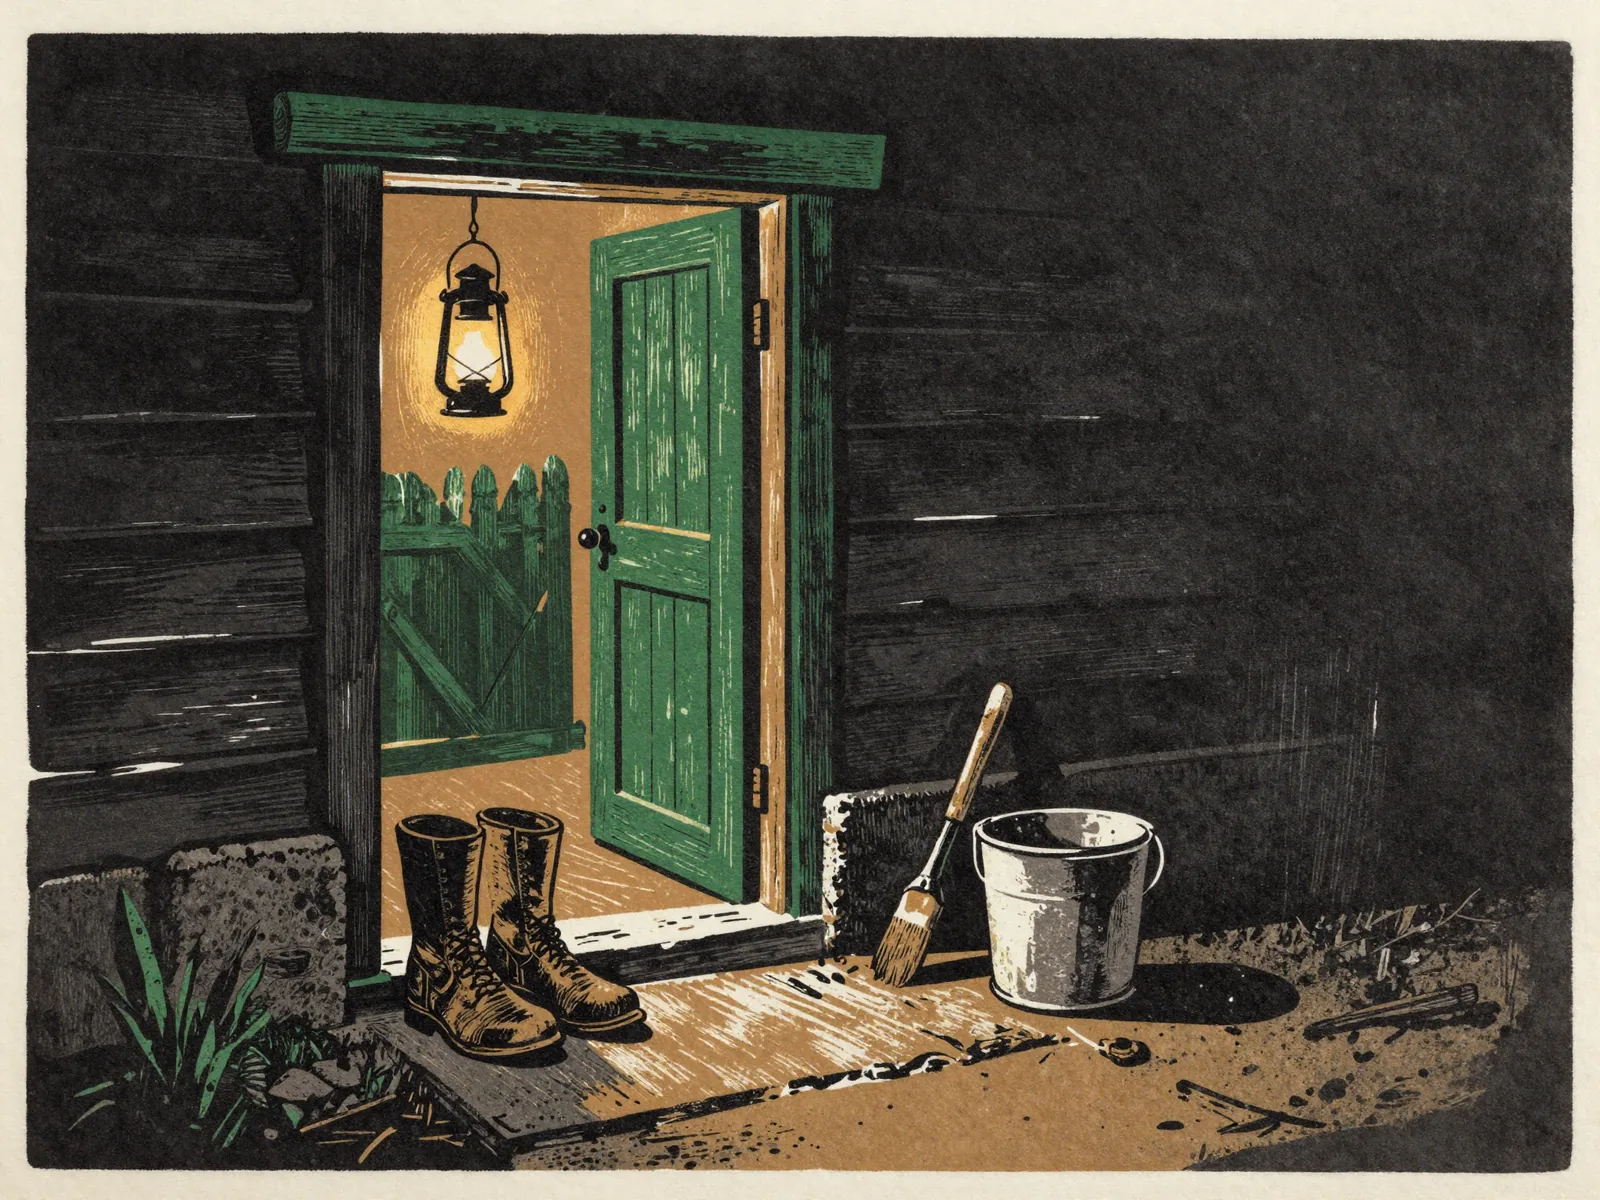
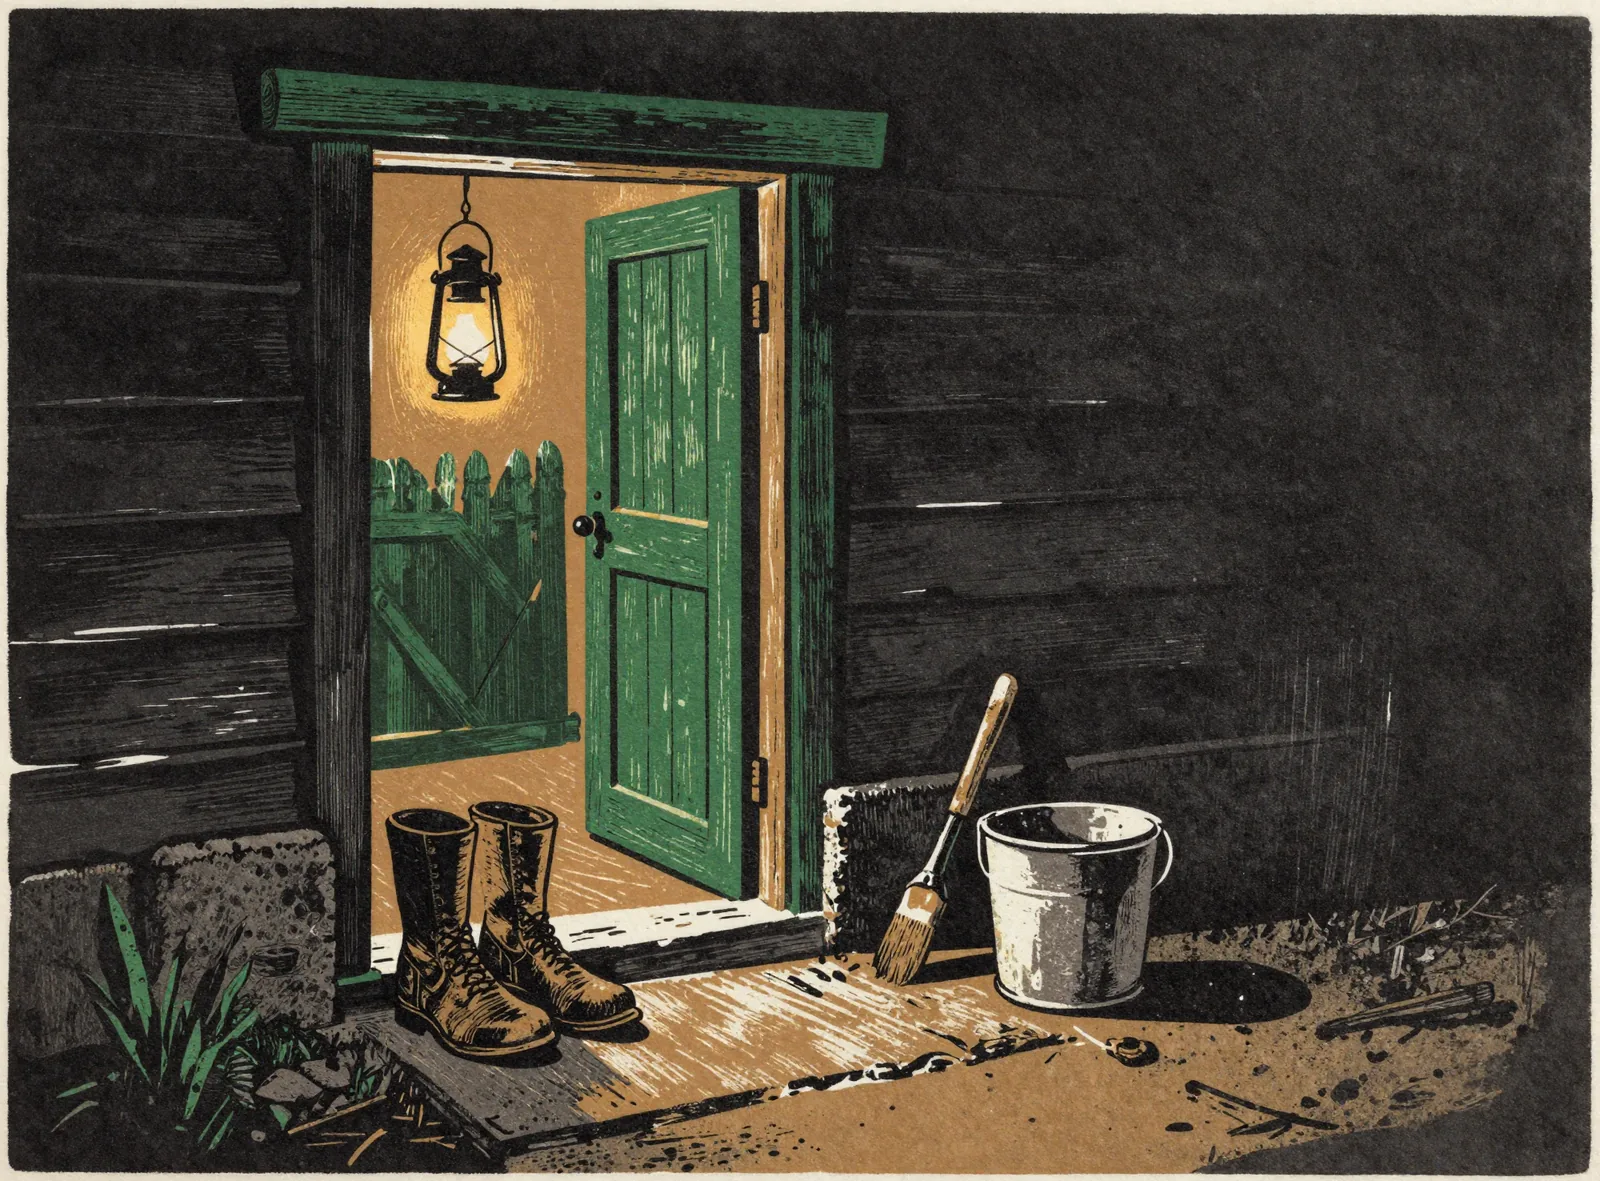
fix(design): prints cropped to their frames — no more double white mat
Founder: the paper margin inside each webp doubled with the page
background. Frame-edge detection crops each print to just outside its
printed border (board needed an outer-band low-threshold pass — its
right frame stroke is thin); partials carry true per-scene dimensions;
plate padding drops to p-2 so the mat is a thin ring, not a border.

diff --git a/templates/pages/beliefs.html b/templates/pages/beliefs.html
@@ -24,7 +24,7 @@
   <section class="umi-section !pt-14 border-b border-[var(--umi-border)]" data-rise>
     <div class="grid grid-cols-1 lg:grid-cols-12 gap-10 items-center">
       <div class="lg:col-span-5">
-        <div class="umi-plate p-4">{% include "illustrations/_one_place.html" with class="w-full h-auto" %}</div>
+        <div class="umi-plate p-2">{% include "illustrations/_one_place.html" with class="w-full h-auto" %}</div>
       </div>
       <div class="lg:col-span-7">
         <h2 class="umi-display">You have already seen it.</h2>
@@ -77,7 +77,7 @@
       <div class="md:col-span-1">
         <span class="umi-kicker">The foundation</span>
         <h2 class="umi-display mt-4">Held in common.</h2>
-        <div class="umi-plate p-3 mt-6 hidden md:block">{% include "illustrations/_carrying.html" with class="w-full h-auto" %}</div>
+        <div class="umi-plate p-2 mt-6 hidden md:block">{% include "illustrations/_carrying.html" with class="w-full h-auto" %}</div>
       </div>
       <div class="md:col-span-2 space-y-5 text-lg leading-relaxed text-parish-ink/85">
         <p>
@@ -110,7 +110,7 @@
   <section class="umi-section border-b border-[var(--umi-border)]" data-rise>
     <div class="grid grid-cols-1 lg:grid-cols-12 gap-8 items-end mb-2">
       <div class="lg:col-span-7"></div>
-      <div class="lg:col-span-5"><div class="umi-plate p-3">{% include "illustrations/_hill.html" with class="w-full h-auto" %}</div></div>
+      <div class="lg:col-span-5"><div class="umi-plate p-2">{% include "illustrations/_hill.html" with class="w-full h-auto" %}</div></div>
     </div>
     <div class="flex items-center gap-3 flex-wrap">
       <span class="umi-kicker">Where we're going</span>

diff --git a/templates/pages/about.html b/templates/pages/about.html
@@ -16,7 +16,7 @@
       <p class="umi-display !text-2xl md:!text-3xl text-parish-ink/75 mt-4">They are neighbours.</p>
     </div>
     <div class="lg:col-span-5">
-      <div class="umi-plate p-4">{% include "illustrations/_well.html" with class="w-full h-auto" %}</div>
+      <div class="umi-plate p-2">{% include "illustrations/_well.html" with class="w-full h-auto" %}</div>
     </div>
   </header>
 
@@ -71,7 +71,7 @@
   {# Why it got built — beside the exchange scene #}
   <div class="grid grid-cols-1 lg:grid-cols-12 gap-10 items-center" data-rise>
     <div class="lg:col-span-5 order-last lg:order-first">
-      <div class="umi-plate p-4">{% include "illustrations/_exchange.html" with class="w-full h-auto" %}</div>
+      <div class="umi-plate p-2">{% include "illustrations/_exchange.html" with class="w-full h-auto" %}</div>
     </div>
     <div class="lg:col-span-7 space-y-5 text-lg leading-relaxed text-parish-ink/85">
       <p>

diff --git a/templates/communities/resources.html b/templates/communities/resources.html
@@ -45,7 +45,7 @@
     {% endfor %}
   {% else %}
     <div class="max-w-sm mx-auto py-10 text-center">
-      <div class="umi-plate p-3 mb-6">{% include "illustrations/_carrying.html" with class="w-full h-auto" %}</div>
+      <div class="umi-plate p-2 mb-6">{% include "illustrations/_carrying.html" with class="w-full h-auto" %}</div>
       <p class="font-serif text-xl text-parish-ink/75">Nothing gathered yet.</p>
       <p class="text-sm text-parish-ink/60 mt-2">{% if member.is_coordinator %}Add the first place a neighbour in a hard week should know about.{% else %}Your coordinators are gathering trusted places to turn — check back soon.{% endif %}</p>
     </div>

diff --git a/templates/pages/landing.html b/templates/pages/landing.html
@@ -102,7 +102,7 @@
     <div class="lg:col-span-4" data-rise>
       <span class="umi-kicker">Built like it matters</span>
       <h2 class="umi-display mt-4">Dignity is a<br>design decision.</h2>
-      <div class="umi-plate p-3 mt-8 hidden lg:block">{% include "illustrations/_carrying.html" with class="w-full h-auto" %}</div>
+      <div class="umi-plate p-2 mt-8 hidden lg:block">{% include "illustrations/_carrying.html" with class="w-full h-auto" %}</div>
     </div>
     <div class="lg:col-span-8 divide-y divide-[var(--umi-border)]">
       <div class="py-6 flex gap-5 first:pt-0">

diff --git a/templates/communities/welcome.html b/templates/communities/welcome.html
@@ -13,7 +13,7 @@
       <p class="text-parish-ink/70 mt-3">Four small moves and it's a living board. Everything here is reversible, and you can come back to this page from Settings anytime.</p>
     </div>
     <div class="md:col-span-5 hidden md:block">
-      <div class="umi-plate p-3">{% include "illustrations/_threshold.html" with class="w-full h-auto" %}</div>
+      <div class="umi-plate p-2">{% include "illustrations/_threshold.html" with class="w-full h-auto" %}</div>
     </div>
   </header>
 

diff --git a/templates/illustrations/_one_place.html b/templates/illustrations/_one_place.html
@@ -3,5 +3,5 @@
    evergreen + bronze), generated suite 2026-07-14. Decorative.{% endcomment %}
 {% load static %}
 <img src="{% static 'img/scenes/one_place.webp' %}" data-scene="one_place" alt=""
-     class="{{ class|default:'w-full h-auto' }}" width="1600" height="1200"
+     class="{{ class|default:'w-full h-auto' }}" width="1600" height="1177"
      decoding="async">

diff --git a/templates/illustrations/_threshold.html b/templates/illustrations/_threshold.html
@@ -3,5 +3,5 @@
    evergreen + bronze), generated suite 2026-07-14. Decorative.{% endcomment %}
 {% load static %}
 <img src="{% static 'img/scenes/threshold.webp' %}" data-scene="threshold" alt=""
-     class="{{ class|default:'w-full h-auto' }}" width="1600" height="1200"
+     class="{{ class|default:'w-full h-auto' }}" width="1600" height="1181"
      decoding="async">

diff --git a/templates/illustrations/_carrying.html b/templates/illustrations/_carrying.html
@@ -3,5 +3,5 @@
    evergreen + bronze), generated suite 2026-07-14. Decorative.{% endcomment %}
 {% load static %}
 <img src="{% static 'img/scenes/carrying.webp' %}" data-scene="carrying" alt=""
-     class="{{ class|default:'w-full h-auto' }}" width="1600" height="1200"
+     class="{{ class|default:'w-full h-auto' }}" width="1600" height="1111"
      decoding="async">

diff --git a/templates/illustrations/_exchange.html b/templates/illustrations/_exchange.html
@@ -3,5 +3,5 @@
    evergreen + bronze), generated suite 2026-07-14. Decorative.{% endcomment %}
 {% load static %}
 <img src="{% static 'img/scenes/exchange.webp' %}" data-scene="exchange" alt=""
-     class="{{ class|default:'w-full h-auto' }}" width="1600" height="1200"
+     class="{{ class|default:'w-full h-auto' }}" width="1600" height="1188"
      decoding="async">

diff --git a/templates/illustrations/_board.html b/templates/illustrations/_board.html
@@ -3,5 +3,5 @@
    evergreen + bronze), generated suite 2026-07-14. Decorative.{% endcomment %}
 {% load static %}
 <img src="{% static 'img/scenes/board.webp' %}" data-scene="board" alt=""
-     class="{{ class|default:'w-full h-auto' }}" width="1600" height="1200"
+     class="{{ class|default:'w-full h-auto' }}" width="1600" height="1178"
      decoding="async">

diff --git a/templates/illustrations/_hill.html b/templates/illustrations/_hill.html
@@ -3,5 +3,5 @@
    evergreen + bronze), generated suite 2026-07-14. Decorative.{% endcomment %}
 {% load static %}
 <img src="{% static 'img/scenes/hill.webp' %}" data-scene="hill" alt=""
-     class="{{ class|default:'w-full h-auto' }}" width="1600" height="1200"
+     class="{{ class|default:'w-full h-auto' }}" width="1600" height="1171"
      decoding="async">

diff --git a/templates/illustrations/_well.html b/templates/illustrations/_well.html
@@ -3,5 +3,5 @@
    evergreen + bronze), generated suite 2026-07-14. Decorative.{% endcomment %}
 {% load static %}
 <img src="{% static 'img/scenes/well.webp' %}" data-scene="well" alt=""
-     class="{{ class|default:'w-full h-auto' }}" width="1600" height="1200"
+     class="{{ class|default:'w-full h-auto' }}" width="1600" height="1180"
      decoding="async">
